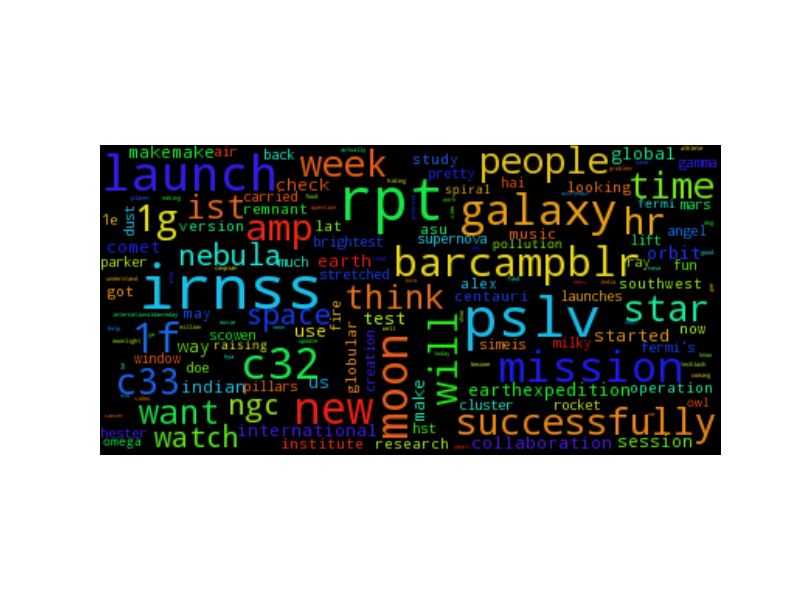
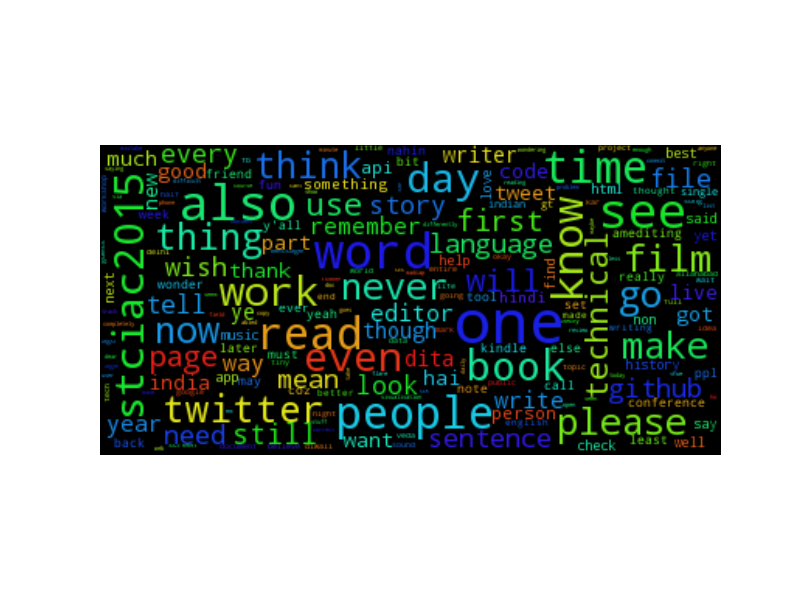
minor updates

Changed region(s): [[0.125, 0.24, 0.9062, 0.75]]

diff --git a/README.md b/README.md
@@ -2,6 +2,9 @@
 
 Simple diagrams.
 
--    Tweet word cloud. Reads data from a JSON file and uses [amueller's wordcloud library](https://github.com/amueller/word_cloud). Data is in a JSON file, of tweets of several people pulled at random over several days. Tweets are cleaned up for hashtags, punctuations, user names, and other unnecessary strings before feeding into the `wordcloud` library. 
--    Bar graph of Titanic survivors. Reads data from a CSV file and uses pylab's [barchart](http://matplotlib.org/examples/pylab_examples/barchart_demo.html) example. The CSV file is from biostat.mc.vanderbilt.edu/wiki/pub/Main/DataSets/titanic3.xls. 
+-    Tweet word cloud. Reads data from a JSON file and uses [amueller's wordcloud library](https://github.com/amueller/word_cloud). Data is in a JSON file of my own tweets. Tweets are cleaned up for hashtags, punctuations, user names, and other unnecessary strings before feeding into the `wordcloud` library. Output is this image: ![my tweets cloud](./examples/word_cloud.png)
+-    Bar graph of Titanic survivors. Reads data from a CSV file and uses pylab's [barchart](http://matplotlib.org/examples/pylab_examples/barchart_demo.html) example. The CSV file is from biostat.mc.vanderbilt.edu/wiki/pub/Main/DataSets/titanic3.xls. The output is this image: ![Titanic survivors, by class and gender](./examples/titanic_bargraph.png)
+-    _Work-in-progress_: Composite infographic of bar charts and text. Reads data from a CSV file of all recorded earthquakes till date.  The CSV file is created from a tab-delimited file from https://www.ngdc.noaa.gov/hazard/earthqk.shtml.
 -    _Work-in-progress_: Line graph + geo plot. Alexander's route.
+
+Repository file structure: Code is in the root folder, as `.py` files. Source data is in `data` and output is in `examples`.
